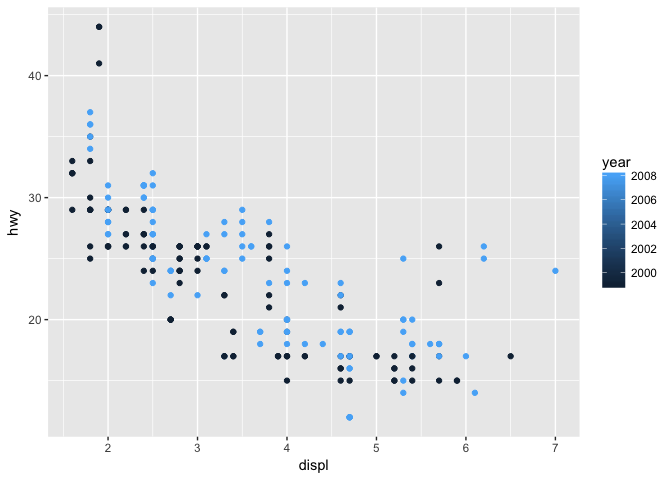
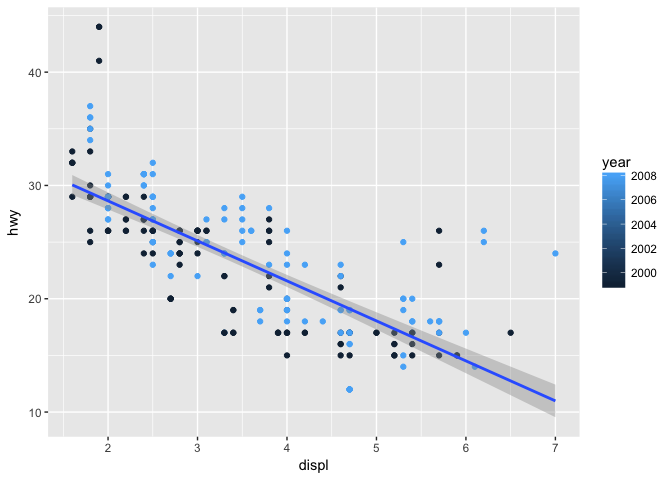
seminar 2b cleanup 2

diff --git a/Seminar2b.md b/Seminar2b.md
@@ -94,11 +94,8 @@ ggplot(data = mpg,
 ggplot(data = mpg, 
        mapping = aes(x = displ, y = hwy, color = year)) +
   geom_point() +
-  geom_smooth(method="ln")
+  geom_smooth(method="lm")
 ```
-
-    ## Warning: Computation failed in `stat_smooth()`:
-    ## object 'ln' of mode 'function' was not found
 
 ![](Seminar2b_files/figure-markdown_github/geom_smooth-3.png)
 
